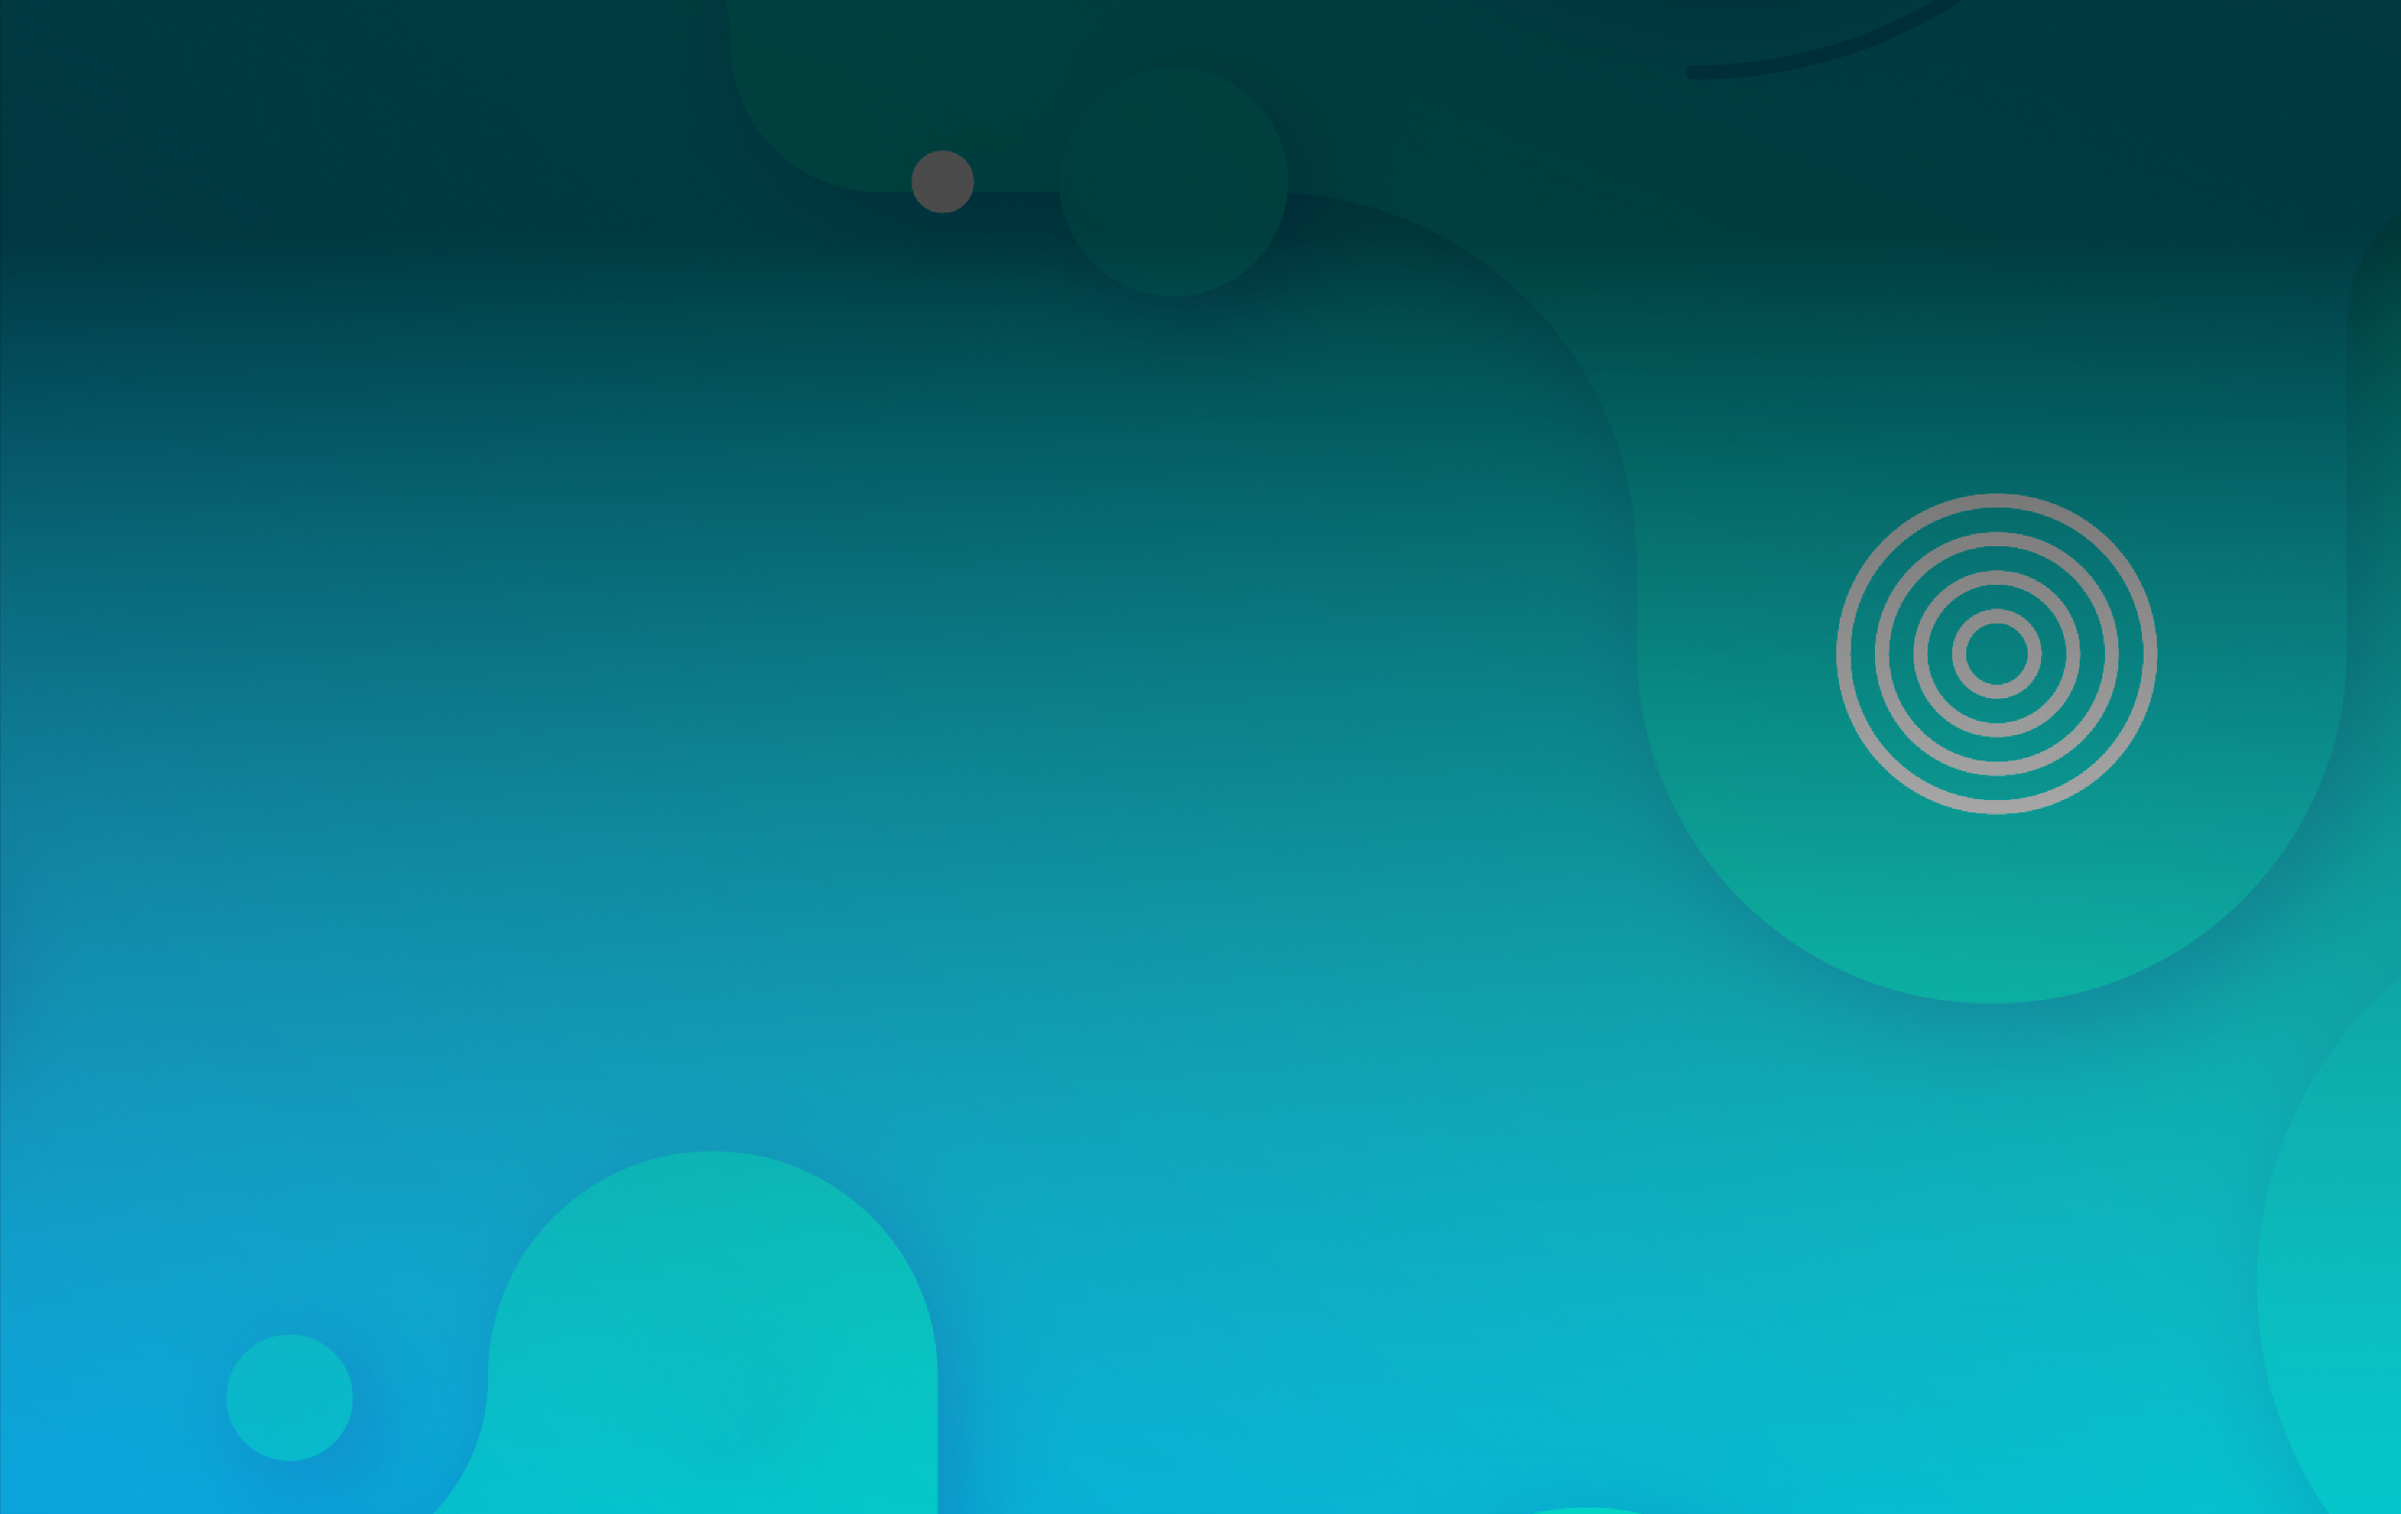
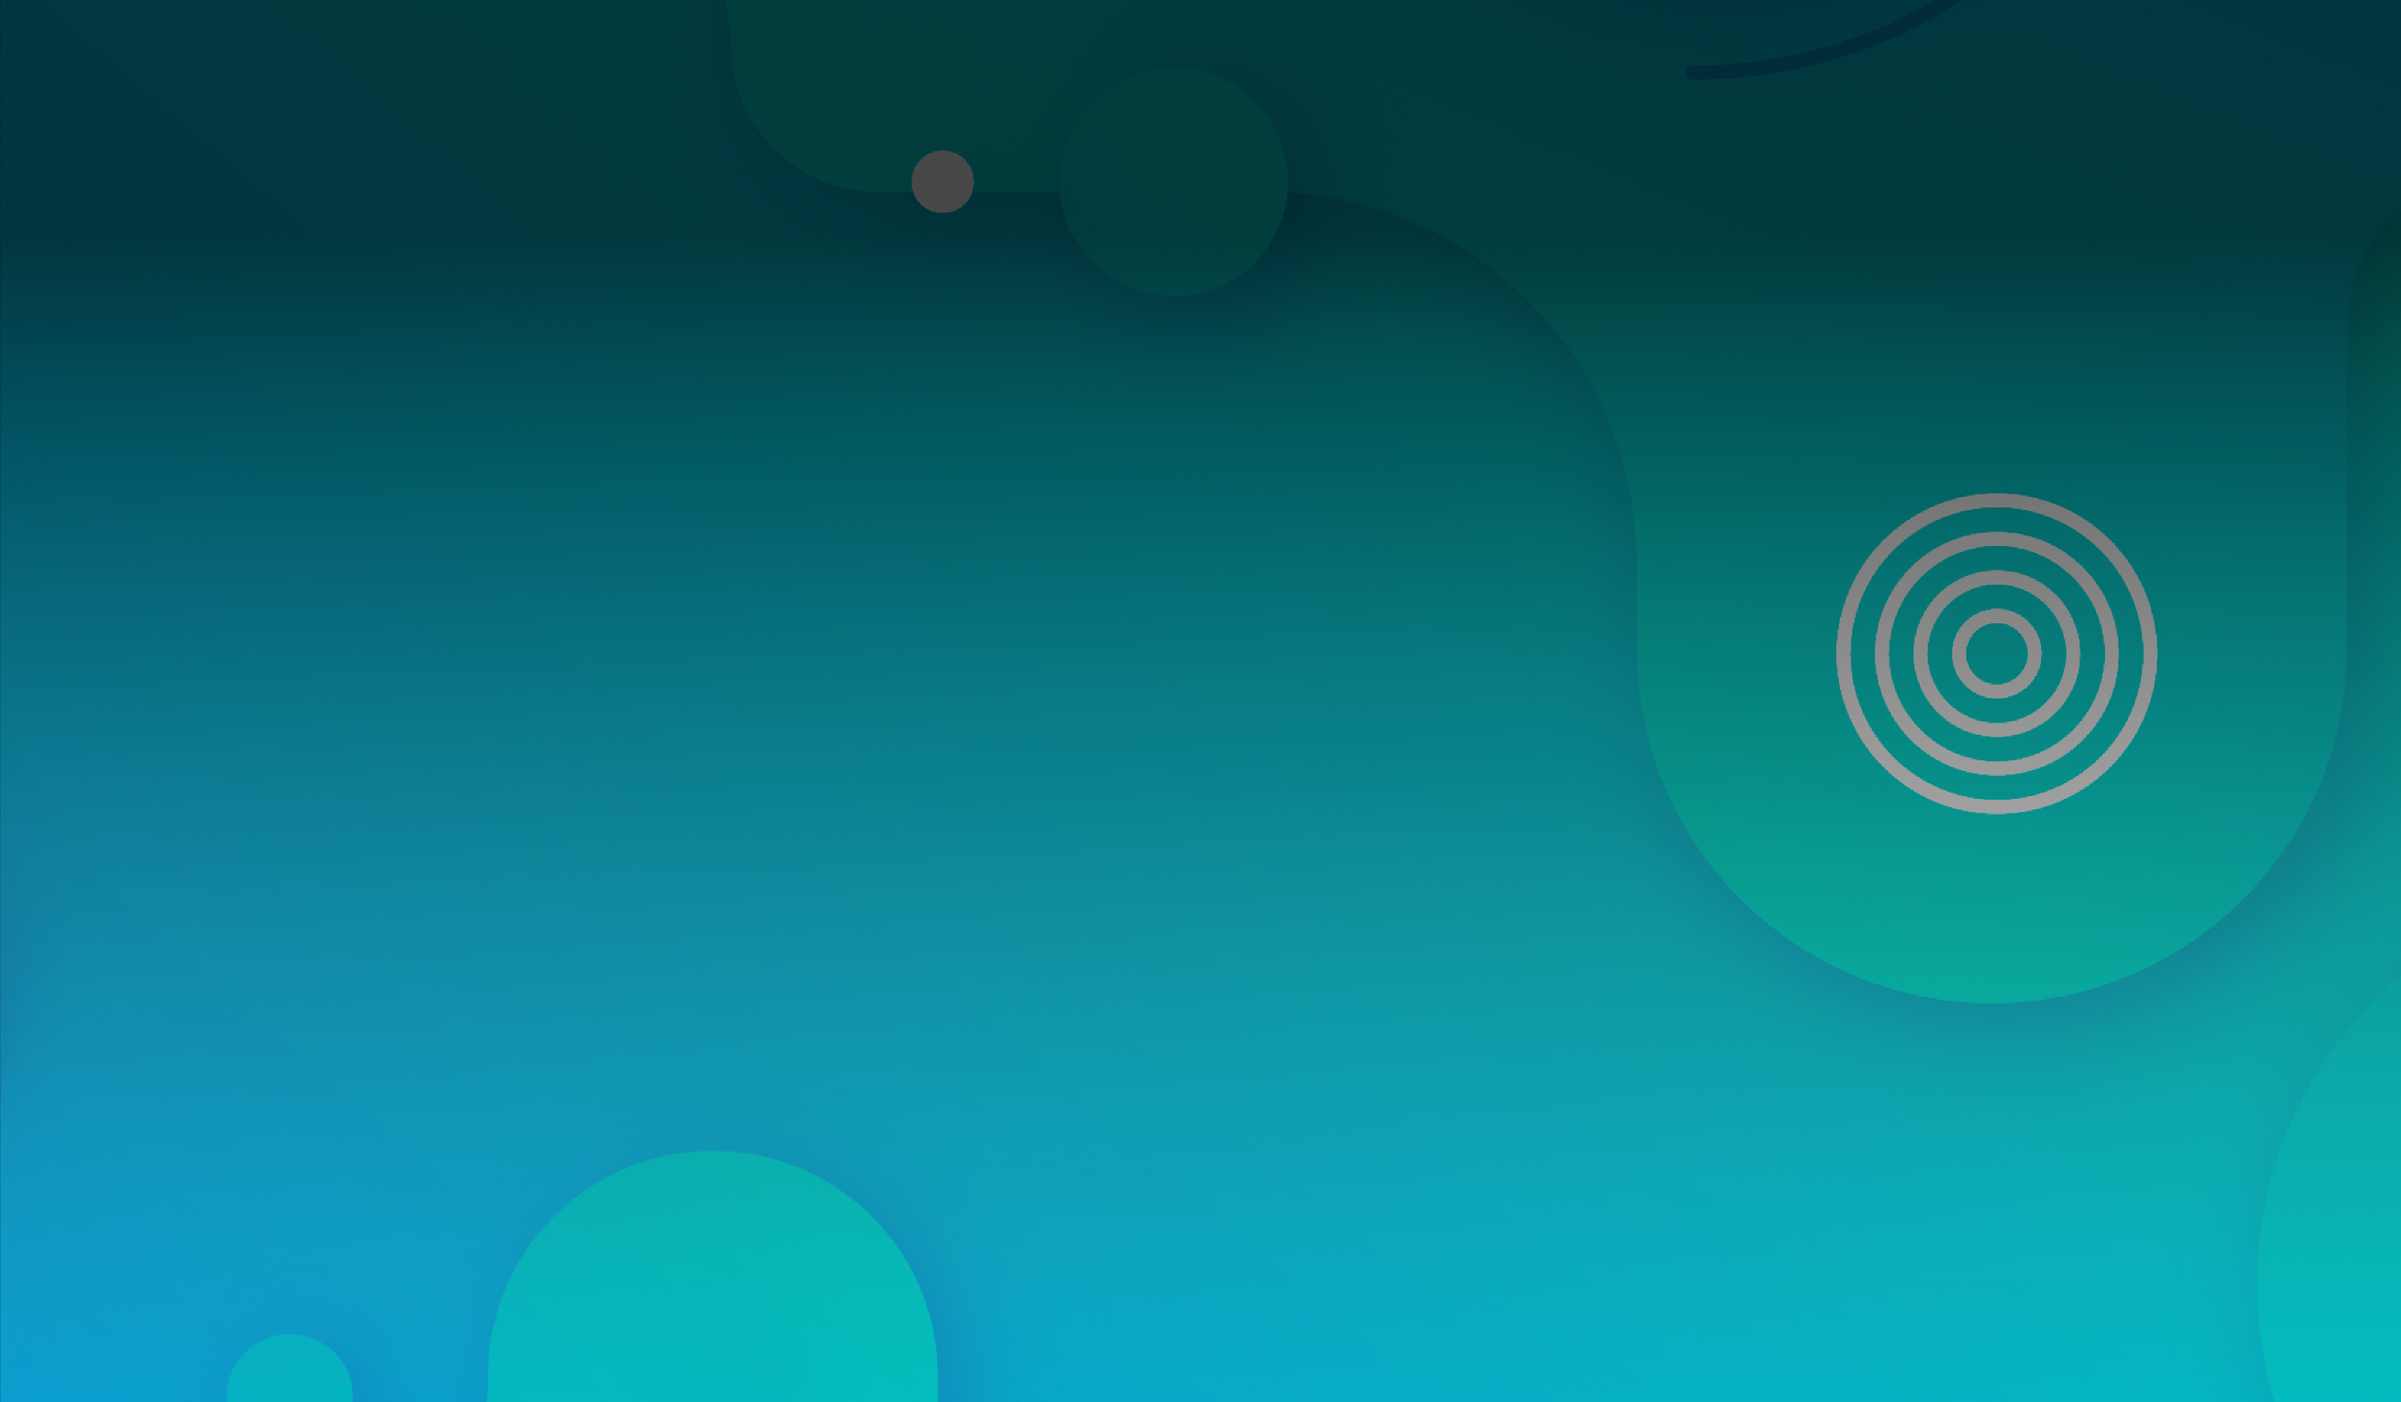
Fixed the logout button at the bottom of the admin dashboard and fixed the background issues we were having all term.

diff --git a/public/css/adminDashboard.css b/public/css/adminDashboard.css
@@ -2,6 +2,7 @@
   width: 23% !important;
   justify-content: flex-end;
 }
+
 .adminIcon {
   list-style: none;
   display: flex;
@@ -9,18 +10,16 @@
   width: 15%;
   margin: 0 0;
 }
-
 .headerText {
   font-family: "Major Mono Display", monospace;
   font-size: 35px !important;
 }
 
 .dashboardContainer {
-  position: absolute;
-  display: flex;
-  right: 4%;
-  height: 530px;
-  width: 92%;
+  position: relative;
+  margin-right: 5%;
+  height: 600px;
+  margin-left: 5%;
   background-color: rgba(255, 255, 255, 0.35);
   border-radius: 15px;
 }
@@ -308,16 +307,27 @@
 }
 
 .logOut {
-  position: absolute;
-  left: 49%;
-  justify-content: center;
-  bottom: 10px;
+  position: relative;
+  margin-right: 39%;
+  margin-left: 39%;
+  margin-top: 20px;
+  text-align: center;
 }
+
+.logOutText {
+  text-align: center;
+  display: inline-block;
+}
+
 @media screen and (max-width: 600px) {
   .adminIcon {
     width: 35% !important;
   }
 
+  .adminIconActive {
+    width: 25vw !important;
+    align-items: center !important;
+  }
   .navLinkRight {
     justify-content: center !important;
     align-content: center;
@@ -329,8 +339,8 @@
     z-index: 0;
   }
   .dashboardContainer {
-    right: 0%;
-    width: 100%;
+    margin-right: 0px;
+    margin-left: 0px;
   }
   .messages {
     width: 30%;
@@ -341,5 +351,28 @@
   }
   .folders {
     width: 20%;
+  }
+  .trashCan {
+    left: 5px;
+    width: 40px;
+  }
+  .flag {
+    left: 175px;
+    width: 40px;
+  }
+
+  .unread {
+    left: 50px;
+    width: 120px;
+  }
+
+  .junk {
+    left: 220px;
+    width: 50px;
+  }
+
+  .reply {
+    left: 275px;
+    width: 50px;
   }
 }

diff --git a/public/dashboard.html b/public/dashboard.html
@@ -48,7 +48,6 @@
     <!-- <script src="admin.js"></script> -->
 
     <h1 class = "text-center headerText mt-2">admin dashboard</h1>
-
     <div class = "dashboardContainer"> 
         <div class = "headerContainer"> 
             <button class = "trashCan"><img class = "align-center imageCenter" alt="trash can" src="./images/garbage-can-icon-2.png"></button>
@@ -122,8 +121,7 @@
         </div>
 
     </div>
-    <div class = "logOut"><a href="/" class = "b-4">Log Out</a></div>
-    <script src="js/admin.js"></script>
-  
+    <div class = "logOut"><a href="/" class = "text-center logOutText">Log Out</a></div>
+    <script src="js/admin.js"></script> 
   </body>
 </html>

diff --git a/public/css/styles.css b/public/css/styles.css
@@ -4,7 +4,7 @@ body {
   margin: 10px;
   color: white;
   background-color: darkslategray;
-  background-image: url(../images/safeBackground.png);
+  background-image: url(../images/BackgroundSAFE.png);
   background-size: 120%, 100%;
   background-position: top, left;
 }
